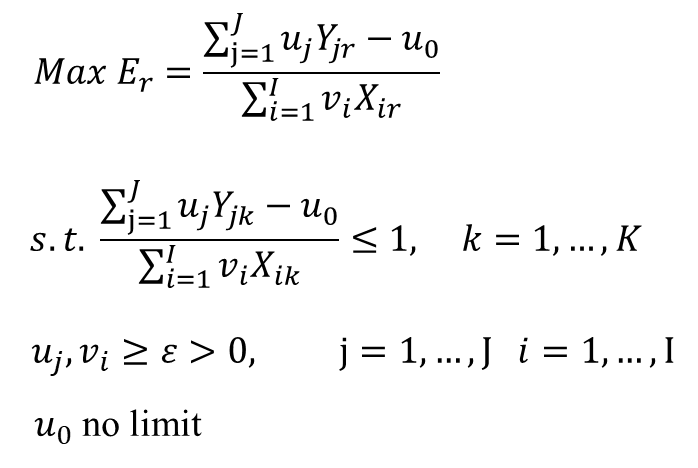
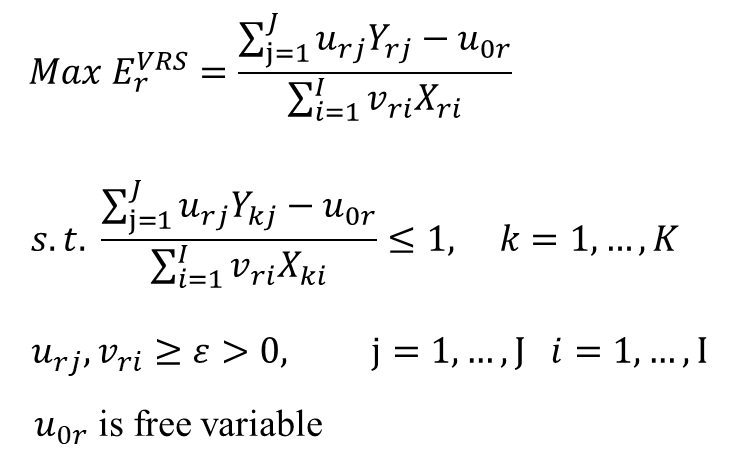
update upstream

diff --git a/CRS_Model/CRS_code.py b/CRS_Model/CRS_code.py
@@ -1,33 +1,34 @@
 from gurobipy import*
-DMU=['A','B','C','D','E']
-E={}
+
+E={}    
+I=2
+O=3
+#X、Y為各DMU的產出與投入
+DMU,X,Y=multidict({('A'):[[11,14],[2,2,1]],('B'):[[7,7],[1,1,1]],('C'):[[11,14],[1,1,2]],('D'):[[14,14],[2,3,1]],('E'):[[14,15],[3,2,3]]})
+
 for r in DMU:
-    
-    I=2
-    O=3
-    #X、Y為各DMU的產出與投入
-    DMU,X,Y=multidict({('A'):[[11,14],[2,2,1]],('B'):[[7,7],[1,1,1]],('C'):[[11,14],[1,1,2]],('D'):[[14,14],[2,3,1]],('E'):[[14,15],[3,2,3]]})
     
     v,u={},{}
 
     m=Model("CRS_model")
     
     for i in range(I):
-        v[i]=m.addVar(vtype=GRB.CONTINUOUS,name="v_%d"%i,lb=0.0001)
+        v[r,i]=m.addVar(vtype=GRB.CONTINUOUS,name="v_%s%d"%(r,i),lb=0.0001)
     
     for j in range(O):
-        u[j]=m.addVar(vtype=GRB.CONTINUOUS,name="u_%d"%j,lb=0.0001)
+        u[r,j]=m.addVar(vtype=GRB.CONTINUOUS,name="u_%s%d"%(r,j),lb=0.0001)
     
     m.update()
     
-    m.setObjective(quicksum(u[j]*Y[r][j] for j in range(O)),GRB.MAXIMIZE)
+    m.setObjective(quicksum(u[r,j]*Y[r][j] for j in range(O)),GRB.MAXIMIZE)
         
-    m.addConstr(quicksum(v[i]*X[r][i] for i in range(I))==1)
+    m.addConstr(quicksum(v[r,i]*X[r][i] for i in range(I))==1)
     for k in DMU:
-        m.addConstr(quicksum(u[j]*Y[k][j] for j in range(O))-quicksum(v[i]*X[k][i] for i in range(I))<=0)
+        m.addConstr(quicksum(u[r,j]*Y[k][j] for j in range(O))-quicksum(v[r,i]*X[k][i] for i in range(I))<=0)
     
     m.optimize()
-    E[r]="The efficiency of DMU %s:%4.3g"%(r,m.objVal)
+    E[r]="The efficiency of DMU %s:%0.3g"%(r,m.objVal)
+
     
 for r in DMU:
     print (E[r])

diff --git a/VAS_Model/VRS_code.py b/VAS_Model/VRS_code.py
@@ -12,23 +12,23 @@ for r in DMU:
     
     v,u={},{}
     for i in range(I):
-        v[i]=m.addVar(vtype=GRB.CONTINUOUS,name="v_%d"%i)
+        v[r,i]=m.addVar(vtype=GRB.CONTINUOUS,name="v_%s%d"%(r,i))
     
     for j in range(O):
-        u[j]=m.addVar(vtype=GRB.CONTINUOUS,name="u_%d"%j)
-    u0=m.addVar(lb=-1000,vtype=GRB.CONTINUOUS)
+        u[r,j]=m.addVar(vtype=GRB.CONTINUOUS,name="u_%s%d"%(r,j))
+    u[0,r]=m.addVar(lb=-1000,vtype=GRB.CONTINUOUS)
     
     m.update()
     
-    m.setObjective(quicksum(u[j]*Y[r][j] for j in range(O))-u0,GRB.MAXIMIZE)
+    m.setObjective(quicksum(u[r,j]*Y[r][j] for j in range(O))-u[0,r],GRB.MAXIMIZE)
         
-    m.addConstr(quicksum(v[i]*X[r][i] for i in range(I))==1)
+    m.addConstr(quicksum(v[r,i]*X[r][i] for i in range(I))==1)
     for k in DMU:
-        m.addConstr(quicksum(u[j]*Y[k][j] for j in range(O))-quicksum(v[i]*X[k][i] for i in range(I))-u0 <=0)
+        m.addConstr(quicksum(u[r,j]*Y[k][j] for j in range(O))-quicksum(v[r,i]*X[k][i] for i in range(I))-u[0,r] <=0)
     
     m.optimize()
     
-    E[r]="The efficiency of DMU %s:%4.3g"%(r,m.objVal)
+    E[r]="The efficiency of DMU %s:%0.3g"%(r,m.objVal)
 
 for r in DMU:
     print (E[r])

diff --git a/CRS_Model/CRS model.md b/CRS_Model/CRS model.md
@@ -13,20 +13,20 @@
 ## (一)CRS Model
 **※此為DEA中固定規模報酬(constant return to scale, CRS)的模型建構說明，並以投入導向的模組為例**<br>
 <br>
-固定規模報酬是指每一單位的投入可得到的產出量是固定的，並不會因為規模大小而改變，也就是說當投入量以等比例增加時，產出亦會以等比例增加，並在固定規模報酬的假設下，藉由將各決策單位(Decision Making Unit, DMU)的各項投入加權組合與各項產出加權組合互相比較計算其比值，以得出各個決策單位的相對效率值，且效率值介於0到1之間，而在CRS模式中所求得的效率值又稱之為**總體效率值(overall efficiency)**；投入導向指的是在相同產出水準下，比較各決策單位投入資源的使用效率。<br>
+固定規模報酬是指每一單位的投入可得到的產出量是固定的，並不會因為規模大小而改變，也就是說當投入量以等比例增加時，產出亦會以等比例增加，並在固定規模報酬的假設下，藉由將各決策單位(Decision Making Unit, DMU)的各項投入加權組合與各項產出加權組合互相比較計算其比值，以得出各個決策單位的相對效率值，且效率值介於0到1之間，而在CRS模式中所求得的效率值又稱之為**總體效率值(overall efficiency, OE)**；投入導向指的是在相同產出水準下，比較各決策單位投入資源的使用效率。<br>
 
 ### § 符號說明
-- E<sub>r</sup></sub>： 決策單位r的效率值
+- E<sub>r</sup></sub><sup>CRS</sup></sub>： 決策單位r的效率值
 - K： 決策單位(DMU)個數 r,k∈K <br>
 - I： 投入項個數 i∈I <br>
 - J： 產出項個數 j∈J <br>
 - ε： 極小的正值稱之為非阿基米德數(non-Archimedean constant)，通常設為10<sup>-4</sup></sub>或10<sup>-6</sup></sub>(目的為了使任一投入或產出項皆不會被忽略)
 ### § 參數說明
-- X<sub>ik</sup></sub>： 決策單位k (k=1,...,K)使用第i (i=1,...,I)個投入項
-- Y<sub>jk</sup></sub>： 決策單位k (k=1,...,K)使用第j (j=1,...,J)個產出項
+- X<sub>ki</sup></sub>： 決策單位k (k=1,...,K)使用第i (i=1,...,I)個投入項
+- Y<sub>kj</sup></sub>： 決策單位k (k=1,...,K)使用第j (j=1,...,J)個產出項
 ### § 決策變數
-- u<sub>j</sup></sub>： 第j個產出項之權重
-- v<sub>i</sup></sub>： 第i個投入項之權重
+- u<sub>rj</sup></sub>： 決策單位r的第j個產出項之權重
+- v<sub>ri</sup></sub>： 決策單位r的第i個投入項之權重
 ### § CRS Model
 #### 1. 比率型
 - 目標式： 找出一組對於受評決策單位r最有利的投入項與產出項之權重，以最大化其效率值
@@ -69,31 +69,31 @@
 from gurobipy import*
 ```
 ### Add parameters
-- 透過for loop來計算每個決策單位的效率
+
 ```python
-DMU=['A','B','C','D','E']
 E={}
-for r in DMU:
-    I=2  # 兩項投入
-    O=3  # 三項產出
-    #X、Y為各DMU的投入與產出情形
-    DMU,X,Y=multidict({('A'):[[11,14],[2,2,1]],('B'):[[7,7],[1,1,1]],('C'):[[11,14],[1,1,2]],('D'):[[14,14],[2,3,1]],('E'):[[14,15],[3,2,3]]})
+I=2  # 兩項投入
+O=3  # 三項產出
+#X、Y為各DMU的投入與產出情形
+DMU,X,Y=multidict({('A'):[[11,14],[2,2,1]],('B'):[[7,7],[1,1,1]],('C'):[[11,14],[1,1,2]],('D'):[[14,14],[2,3,1]],('E'):[[14,15],[3,2,3]]})    
 ```
 ### Model
+- 透過for loop來計算每個決策單位r的效率
 ```python
+for r in DMU:
     m=Model("CRS_model")
 ```
 ### Add decision variables
-- 建立決策變數投入項與產出項權重 v<sub>i</sup></sub>、 u<sub>j</sup></sub>
+- 建立決策變數投入項與產出項權重 v<sub>ri</sup></sub>、 u<sub>rj</sup></sub>
 ```python
 
     v,u={},{}
 
     for i in range(I):
-        v[i]=m.addVar(vtype=GRB.CONTINUOUS,name="v_%d"%i,lb=0.0001)
+        v[r,i]=m.addVar(vtype=GRB.CONTINUOUS,name="v_%s%d"%(r,i),lb=0.0001)
     
     for j in range(O):
-        u[j]=m.addVar(vtype=GRB.CONTINUOUS,name="u_%d"%j,lb=0.0001)
+        u[r,j]=m.addVar(vtype=GRB.CONTINUOUS,name="u_%s%d"%(r,j),lb=0.0001)
 ```
 ### Update
 ```python
@@ -103,20 +103,20 @@ for r in DMU:
 <img src="https://github.com/wurmen/DEA/blob/master/CRS_Model/picture/crs2-1.png" width="200" height="80">
 
 ```python
-    m.setObjective(quicksum(u[j]*Y[r][j] for j in range(O)),GRB.MAXIMIZE)
+    m.setObjective(quicksum(u[r,j]*Y[r][j] for j in range(O)),GRB.MAXIMIZE)
 ```
 ### Add constraints
 <img src="https://github.com/wurmen/DEA/blob/master/CRS_Model/picture/crs2-2.png" width="275" height="125">
 
 ```python
-    m.addConstr(quicksum(v[i]*X[r][i] for i in range(I))==1)
+    m.addConstr(quicksum(v[r,i]*X[r][i] for i in range(I))==1)
     for k in DMU:
-        m.addConstr(quicksum(u[j]*Y[k][j] for j in range(O))-quicksum(v[i]*X[k][i] for i in range(I))<=0)
+        m.addConstr(quicksum(u[r,j]*Y[k][j] for j in range(O))-quicksum(v[r,i]*X[k][i] for i in range(I))<=0)
 ```
 ### Print result
 ```python
     m.optimize()
-    E[r]="The efficiency of DMU %s:%4.3g"%(r,m.objVal)
+    E[r]="The efficiency of DMU %s:%0.3g"%(r,m.objVal)
     
 for r in DMU:
     print (E[r])
@@ -124,9 +124,9 @@ for r in DMU:
 **最後可得到如下所示的結果**<br>
 從結果我們可知決策單位A、D、E與其他決策單位相比是相較有效率的，其效率值皆為1。
 ```
-    The efficiency of DMU A:   1
+    The efficiency of DMU A:1
     The efficiency of DMU B:0.898
     The efficiency of DMU C:0.848
-    The efficiency of DMU D:   1
-    The efficiency of DMU E:   1
+    The efficiency of DMU D:1
+    The efficiency of DMU E:1
 ```

diff --git a/README.md b/README.md
@@ -7,6 +7,7 @@
 |更新時間|文章|
 |---|---|
 |2018-01-29|[CRS Model](https://github.com/wurmen/DEA/blob/master/CRS_Model/CRS%20model.md)|
+|2018-02-05|[VRS Model](https://github.com/wurmen/DEA/blob/master/VAS_Model/VRS%20model.md)|
 |2018-01-30|[Network DEA Model](https://github.com/wurmen/DEA/blob/master/Network_DEA/network_dea.md)|
 
 --------
